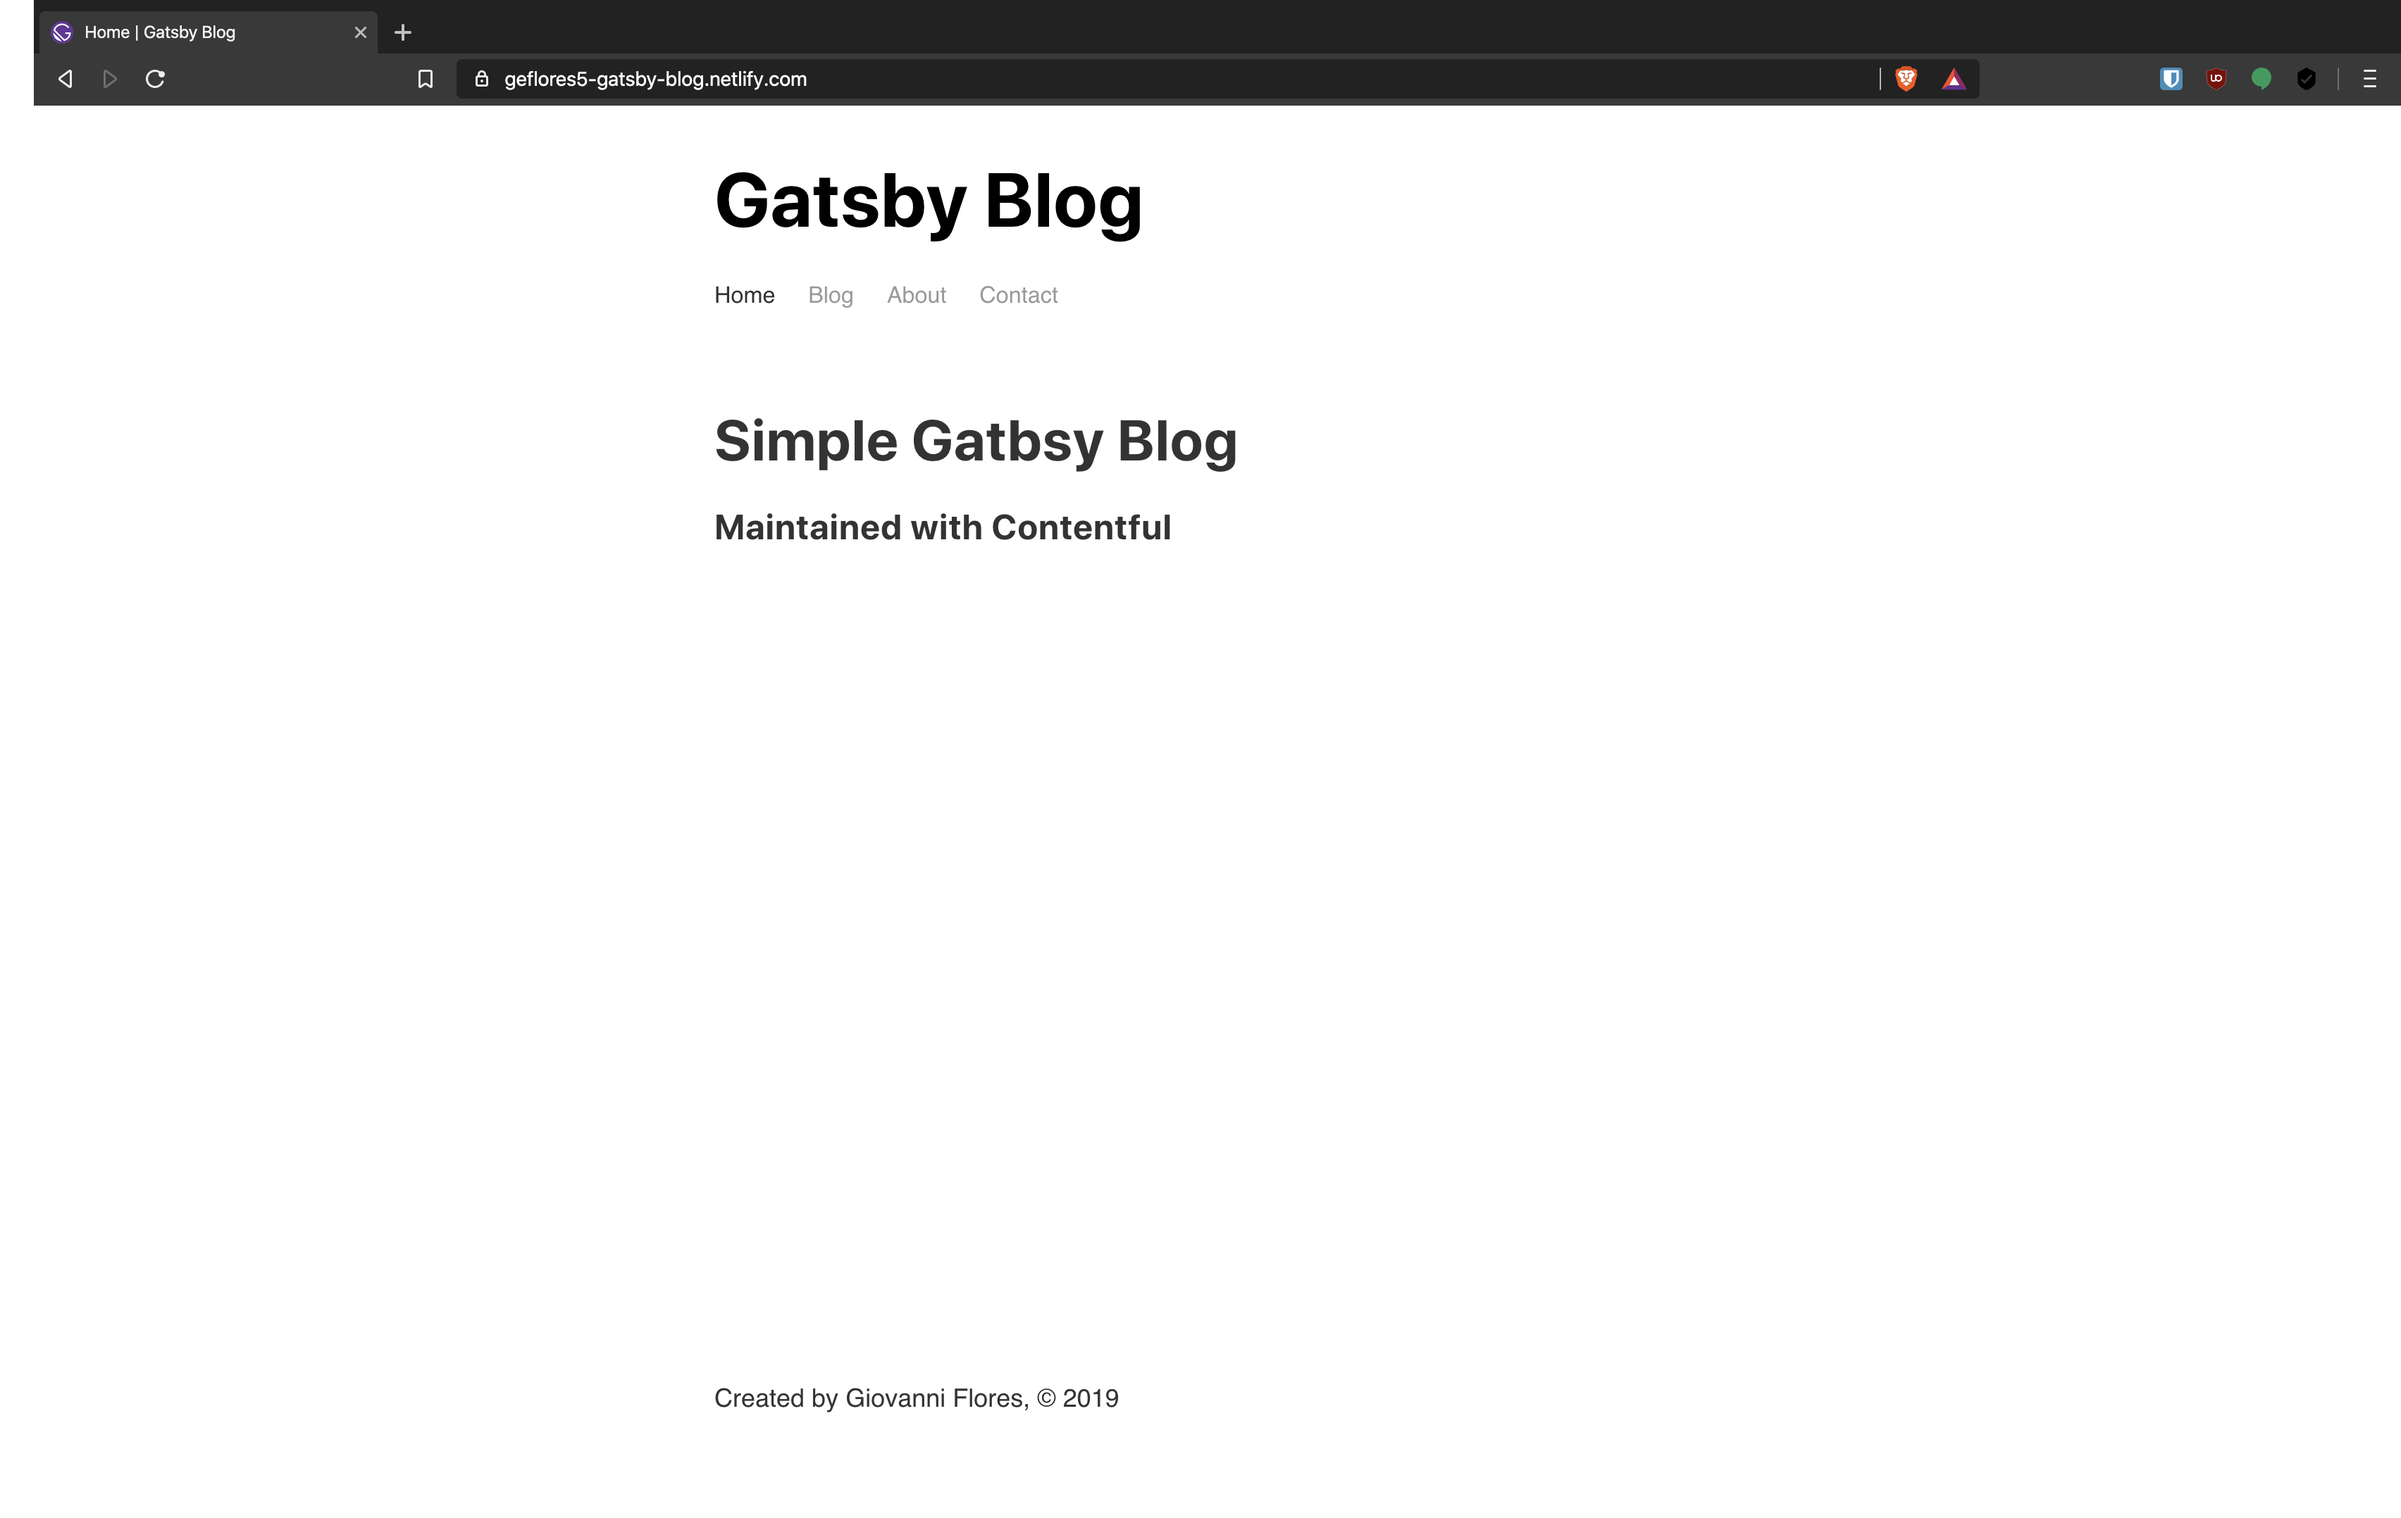
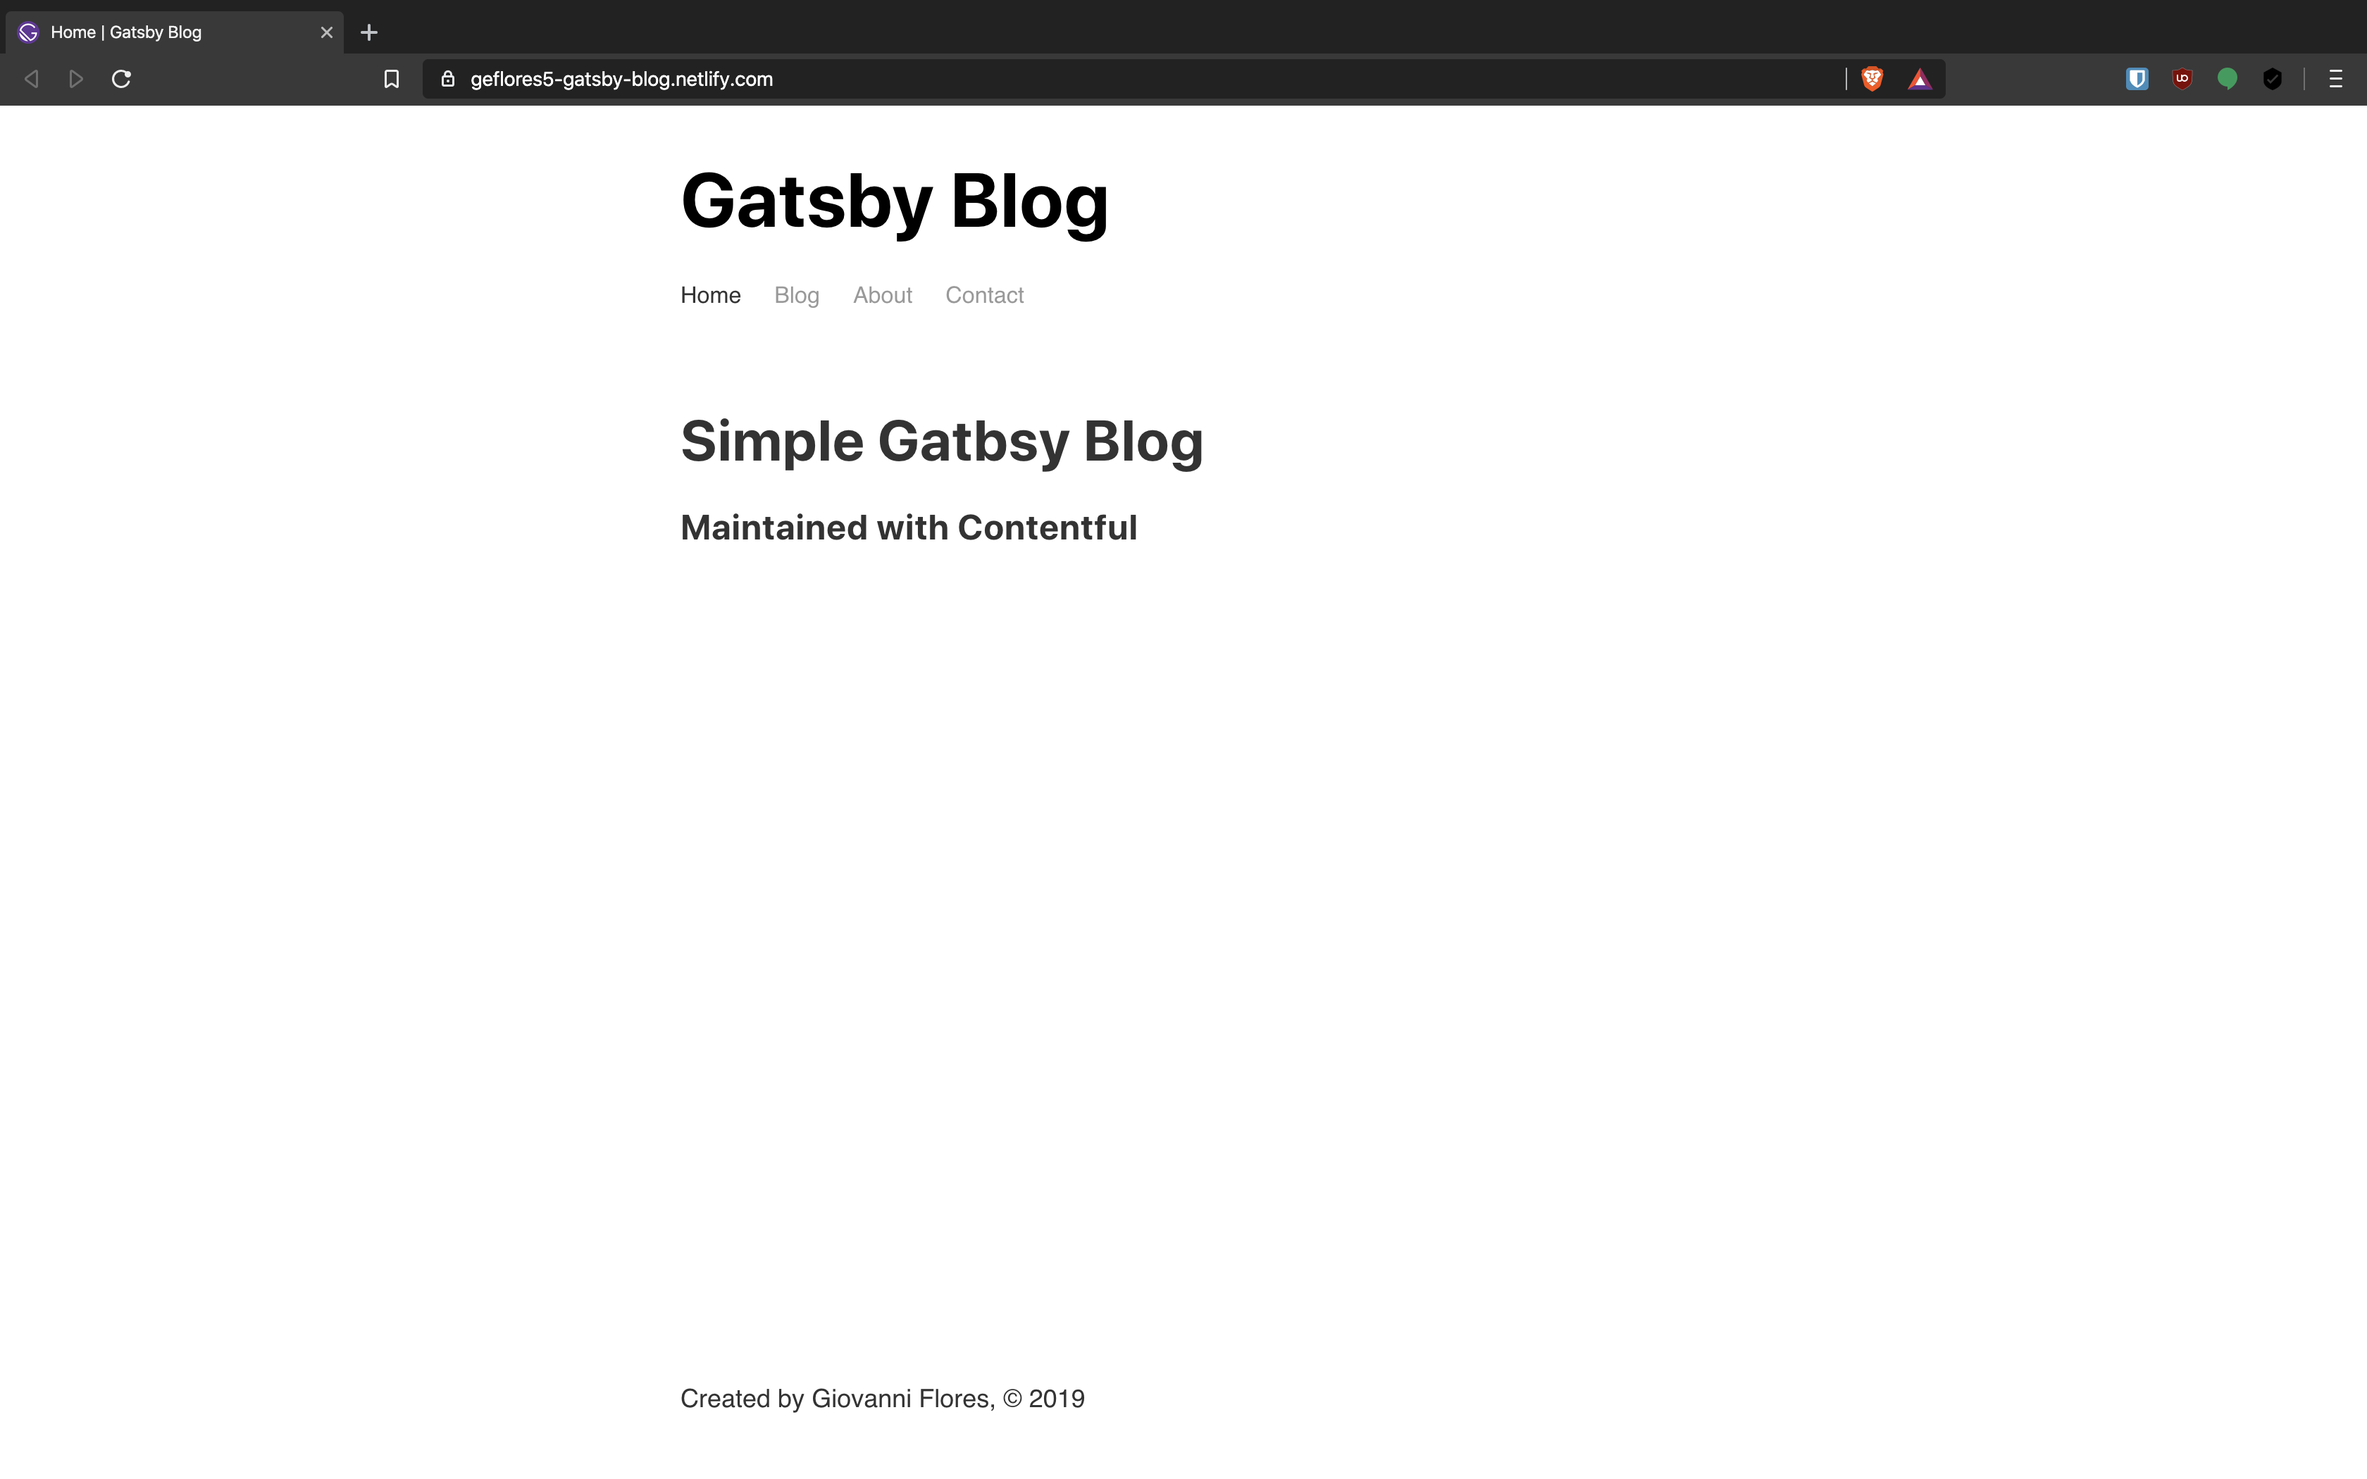
edit header, general styling

diff --git a/src/components/projects.js b/src/components/projects.js
@@ -6,14 +6,19 @@ import projectsStyles from './projects.module.scss'
 
 const Projects = () => {
     return (
-        <div className={projectsStyles.container}>
-            <h1>Projects</h1>
+        <div>
             <div className={projectsStyles.row}>
                 <div className={projectsStyles.project}>
                     <a href="https://remember-when-5gyebb.web.app" target="_blank">
                         <img src={remember} alt="Remember When" />
                     </a>
                     <p>Built with React, Redux, Firebase Auth/DB/Hosting</p>
+                    <ul className={projectsStyles.info}>
+                        <li>Users create timelines and iput memories</li>
+                        <li>Upload images and add description and date</li>
+                        <li>Sort by date or filter by keyword</li>
+                        <li>User authentication through email and password</li>
+                    </ul>
                     <a href="https://github.com/geflores5/remember-when" target="_blank">
                         <img src={gitcat} alt="geflores5"/>
                     </a>

diff --git a/src/components/header.module.scss b/src/components/header.module.scss
@@ -1,7 +1,7 @@
 .header {
+    background: #323a42;
     font-family: sans-serif;
-    background: #3e8de7;
-    padding: 0 0 1rem;
+    padding: 0;
     position: relative;
     text-align: center;
     top: 0;
@@ -9,31 +9,35 @@
 }
 
 .title {
-    color: #ffffff;
+    color: #78b5fc;
     font-size: 3rem;
     text-decoration: none;
 }
 
 .nav-list {
+    list-style-type: none;
+    background-color: #0bc759;
     display: flex;
     flex-direction: row;
     flex-wrap: nowrap;
     justify-content: space-evenly;
-    width: 50%;
-    margin: 0 auto;
+    max-width: 300px;
+    width: 40%;
+    margin: 0 auto 0 auto;
     text-align: center;
+    padding: 5px 0 5px 0;
 }
 
 .nav-item {
-    width: 20%;
-    color: #fde7e7;
+    width: 33%;
+    color: #ffffff;
     text-align: center;
 }
 
 .nav-item:hover {
-    color: #cccccc;
+    color: #cec9c9;
 }
 
 .active-nav-item {
-    color: #f5c2c2;
+    color: #e9e9d9;
 }

diff --git a/src/components/header.js b/src/components/header.js
@@ -25,7 +25,7 @@ const Header = () => {
                 <ul className={headerStyles.navList}>
                     <li>
                         <Link className={headerStyles.navItem} activeClassName={headerStyles.activeNavItem} to="/">
-                            Home
+                            Portfolio
                         </Link>
                     </li>
                     <li>

diff --git a/src/components/layout.module.scss b/src/components/layout.module.scss
@@ -1,5 +1,6 @@
 .container {
   width: 100vw;
+  background-color: #c2c6ca;
   position: absolute;
   text-align: center;
   top: 0;
@@ -10,8 +11,11 @@
 }
 
 .content {
+  height: 100%;
+  width: 100%;
+  background-color: #ffffff;
   text-align: center;
   max-width: 750px;
   flex-grow: 1;
-  margin: auto;
+  margin: 0 auto 0 auto;
 }

diff --git a/src/components/projects.module.scss b/src/components/projects.module.scss
@@ -1,7 +1,3 @@
-.container {
-    max-width: 100%;
-    max-height: 100%;
-}
 .row {
     max-width: 100%;
     width: 100%;
@@ -12,6 +8,9 @@
 .project {
     max-width: 50%;
     width: 50%;
+}
+.info {
+    text-align: left;
 }
 img {
     max-width: 100%;

diff --git a/src/components/footer.module.scss b/src/components/footer.module.scss
@@ -1,3 +1,3 @@
 .footer {
-    margin-top: 3rem;
+    margin: 1rem auto 1rem auto;
 }
